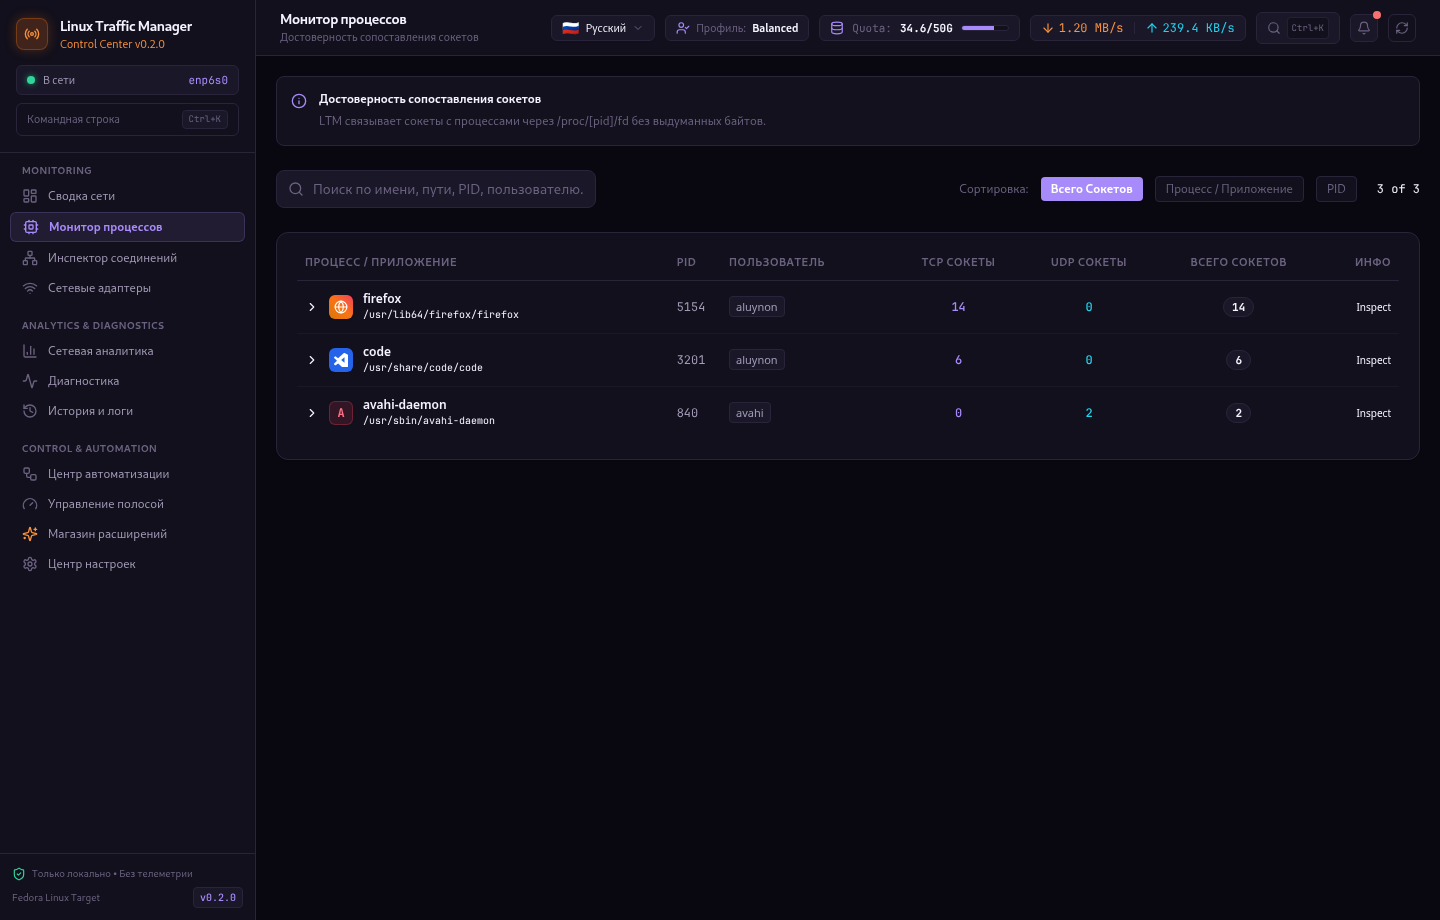
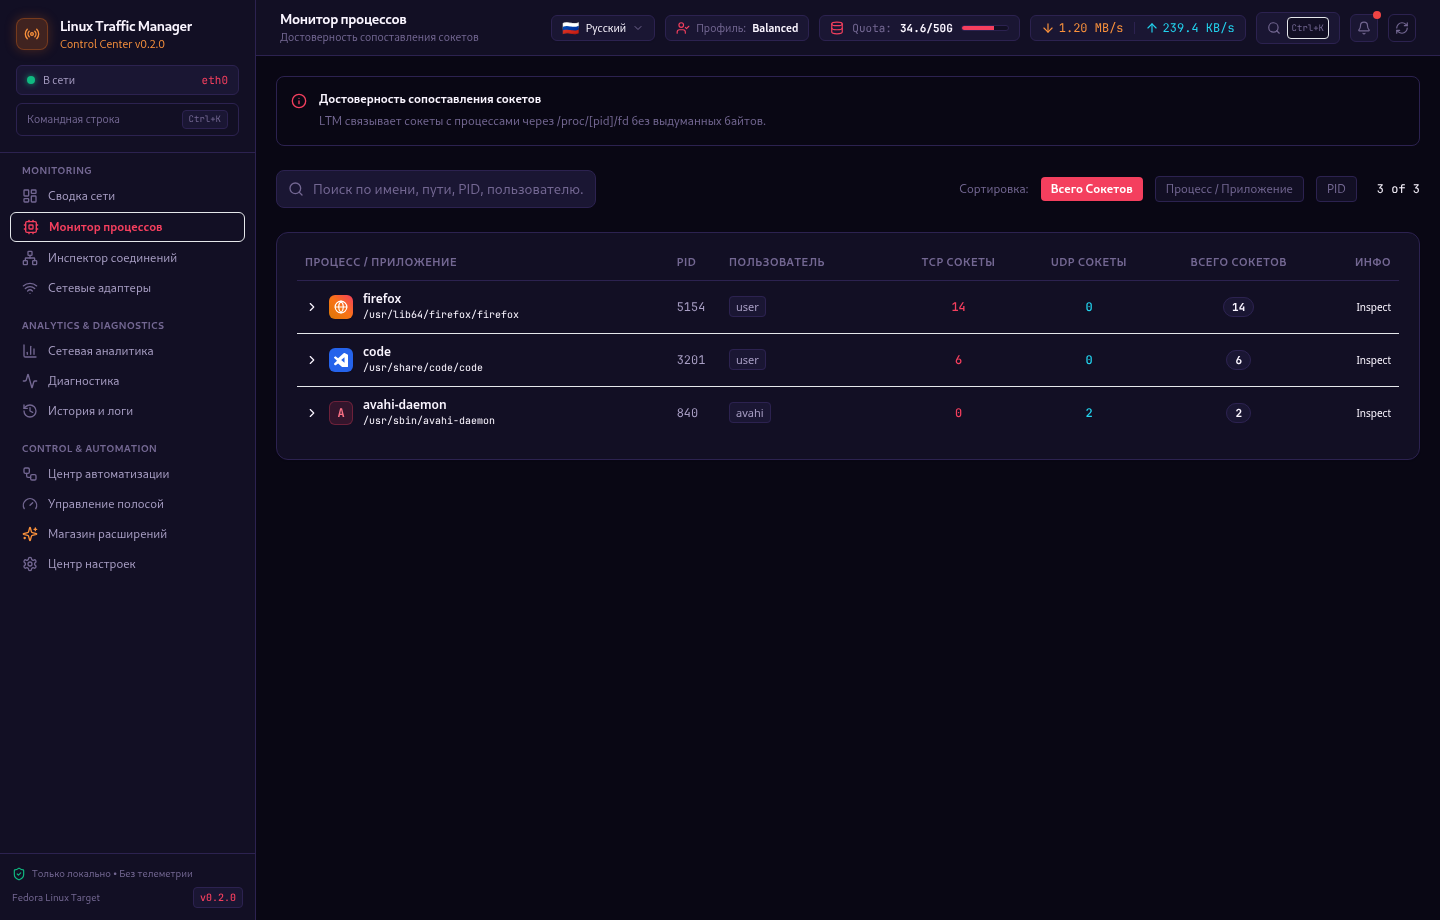
security: fully sanitize mock data and docs with generic eth0/user, update all screenshots

Changed region(s): [[0.7188, 0.1826, 0.8125, 0.2435], [0.0, 0.2435, 0.125, 0.2739], [0.125, 0.0609, 0.1562, 0.0913]]

diff --git a/frontend/src/services/mockData.ts b/frontend/src/services/mockData.ts
@@ -12,9 +12,9 @@ import {
 
 export const mockInterfaces: NetworkInterface[] = [
   {
-    name: 'enp6s0',
-    ip_addresses: ['192.168.0.105', 'fe80::4a21:3bff:fe91:21ad'],
-    mac_address: '48:21:3b:91:21:ad',
+    name: 'eth0',
+    ip_addresses: ['10.0.0.15', 'fe80::1ff:fe00:1'],
+    mac_address: '52:54:00:12:34:56',
     state: 'up',
     is_up: true,
     is_loopback: false,
@@ -77,9 +77,9 @@ export const generateMockHistoryPoints = (): TrafficHistoryPoint[] => {
 
 export const mockConnections: NetworkConnection[] = [
   {
-    id: 'TCP-192.168.0.105:52310-142.250.180.206:443-42806',
+    id: 'TCP-10.0.0.15:52310-142.250.180.206:443-42806',
     protocol: 'TCP',
-    local_address: '192.168.0.105',
+    local_address: '10.0.0.15',
     local_port: 52310,
     remote_address: '142.250.180.206',
     remote_port: 443,
@@ -88,7 +88,7 @@ export const mockConnections: NetworkConnection[] = [
     uid: 1000,
     pid: 5154,
     process_name: 'firefox',
-    user: 'aluynon',
+    user: 'user',
     first_seen: Math.floor(Date.now() / 1000) - 300,
   },
   {
@@ -103,13 +103,13 @@ export const mockConnections: NetworkConnection[] = [
     uid: 1000,
     pid: 3201,
     process_name: 'code',
-    user: 'aluynon',
+    user: 'user',
     first_seen: Math.floor(Date.now() / 1000) - 1800,
   },
   {
-    id: 'UDP-192.168.0.105:5353-224.0.0.251:5353-10705',
+    id: 'UDP-10.0.0.15:5353-224.0.0.251:5353-10705',
     protocol: 'UDP',
-    local_address: '192.168.0.105',
+    local_address: '10.0.0.15',
     local_port: 5353,
     remote_address: '224.0.0.251',
     remote_port: 5353,
@@ -128,7 +128,7 @@ export const mockApplications: ProcessAppSummary[] = [
     pid: 5154,
     name: 'firefox',
     executable_path: '/usr/lib64/firefox/firefox',
-    user: 'aluynon',
+    user: 'user',
     connection_count: 14,
     tcp_count: 14,
     udp_count: 0,
@@ -139,7 +139,7 @@ export const mockApplications: ProcessAppSummary[] = [
     pid: 3201,
     name: 'code',
     executable_path: '/usr/share/code/code',
-    user: 'aluynon',
+    user: 'user',
     connection_count: 6,
     tcp_count: 6,
     udp_count: 0,
@@ -165,8 +165,8 @@ export const mockDiagnosticReport: DiagnosticReport = {
   dns_status: 'Working',
   dns_latency_ms: 18.4,
   gateway: {
-    interface: 'enp6s0',
-    gateway_ip: '192.168.0.1',
+    interface: 'eth0',
+    gateway_ip: '10.0.0.1',
     is_reachable: true,
     latency_ms: 1.2,
   },
@@ -232,7 +232,7 @@ export const mockHistoricalSamples: StoredTrafficSample[] = [
   {
     id: 1,
     timestamp: Math.floor(Date.now() / 1000) - 3600,
-    interface_name: 'enp6s0',
+    interface_name: 'eth0',
     rx_speed_bps: 1024000,
     tx_speed_bps: 128000,
     rx_bytes_total: 300000000,
@@ -241,7 +241,7 @@ export const mockHistoricalSamples: StoredTrafficSample[] = [
   {
     id: 2,
     timestamp: Math.floor(Date.now() / 1000) - 1800,
-    interface_name: 'enp6s0',
+    interface_name: 'eth0',
     rx_speed_bps: 2048000,
     tx_speed_bps: 512000,
     rx_bytes_total: 320000000,
@@ -250,7 +250,7 @@ export const mockHistoricalSamples: StoredTrafficSample[] = [
   {
     id: 3,
     timestamp: Math.floor(Date.now() / 1000),
-    interface_name: 'enp6s0',
+    interface_name: 'eth0',
     rx_speed_bps: 1258291,
     tx_speed_bps: 245100,
     rx_bytes_total: 345829120,

diff --git a/frontend/src/pages/DashboardPage.tsx b/frontend/src/pages/DashboardPage.tsx
@@ -265,7 +265,7 @@ export const DashboardPage: React.FC<DashboardPageProps> = ({
             <div className="flex justify-between p-2 rounded bg-surface-secondary border border-border/40">
               <span className="text-text-muted font-sans">{t.defaultGateway}:</span>
               <span className="text-text-primary">
-                {diagnosticReport?.gateway?.gateway_ip || activeInterface?.gateway || '192.168.0.1'}
+                {diagnosticReport?.gateway?.gateway_ip || activeInterface?.gateway || '10.0.0.1'}
               </span>
             </div>
 

diff --git a/frontend/src/services/tauriClient.ts b/frontend/src/services/tauriClient.ts
@@ -205,7 +205,7 @@ export const api = {
 
   probeRouteHops: async (target: string, maxHops?: number): Promise<RouteHop[]> => {
     return safeInvoke('probe_route_hops', { target, maxHops }, [
-      { hop: 1, ip: '192.168.0.1', rtt_ms: 1.2, status: 'Local Gateway' },
+      { hop: 1, ip: '10.0.0.1', rtt_ms: 1.2, status: 'Local Gateway' },
       { hop: 2, ip: '1.1.1.1', rtt_ms: 22.4, status: `Target Host (${target})` },
     ]);
   },

diff --git a/crates/ltm-core/src/network/interfaces.rs b/crates/ltm-core/src/network/interfaces.rs
@@ -256,7 +256,7 @@ mod tests {
     const SAMPLE_PROC_DEV: &str = r#"Inter-|   Receive                                                |  Transmit
  face |bytes    packets errs drop fifo frame compressed multicast|bytes    packets errs drop fifo colls carrier compressed
     lo: 16412278   19635    0    0    0     0          0         0 16412278   19635    0    0    0     0       0          0
-enp6s0: 324756337  271850    0    1    0     0          0       289 135704666  229104    0    0    0     0       0          0
+  eth0: 324756337  271850    0    1    0     0          0       289 135704666  229104    0    0    0     0       0          0
 "#;
 
     #[test]
@@ -264,13 +264,13 @@ enp6s0: 324756337  271850    0    1    0     0          0       289 135704666  2
         let parsed = parse_proc_net_dev(SAMPLE_PROC_DEV);
         assert_eq!(parsed.len(), 2);
 
-        let enp = parsed.get("enp6s0").expect("enp6s0 parsed");
-        assert_eq!(enp.rx_bytes, 324756337);
-        assert_eq!(enp.rx_packets, 271850);
-        assert_eq!(enp.rx_errs, 0);
-        assert_eq!(enp.rx_drop, 1);
-        assert_eq!(enp.tx_bytes, 135704666);
-        assert_eq!(enp.tx_packets, 229104);
+        let eth = parsed.get("eth0").expect("eth0 parsed");
+        assert_eq!(eth.rx_bytes, 324756337);
+        assert_eq!(eth.rx_packets, 271850);
+        assert_eq!(eth.rx_errs, 0);
+        assert_eq!(eth.rx_drop, 1);
+        assert_eq!(eth.tx_bytes, 135704666);
+        assert_eq!(eth.tx_packets, 229104);
 
         let lo = parsed.get("lo").expect("lo parsed");
         assert_eq!(lo.rx_bytes, 16412278);

diff --git a/crates/ltm-core/src/diagnostics/gateway.rs b/crates/ltm-core/src/diagnostics/gateway.rs
@@ -95,7 +95,7 @@ mod tests {
     fn test_gateway_route_parsing() {
         let sample =
             "Iface\tDestination\tGateway\tFlags\tRefCnt\tUse\tMetric\tMask\tMTU\tWindow\tIRTT\n\
-                      enp6s0\t00000000\t0100A8C0\t0003\t0\t0\t100\t00000000\t0\t0\t0\n";
+                      eth0\t00000000\t0100000A\t0003\t0\t0\t100\t00000000\t0\t0\t0\n";
 
         let mut parsed_gw = None;
         for line in sample.lines().skip(1) {
@@ -105,6 +105,6 @@ mod tests {
             }
         }
 
-        assert_eq!(parsed_gw.unwrap(), Ipv4Addr::new(192, 168, 0, 1));
+        assert_eq!(parsed_gw.unwrap(), Ipv4Addr::new(10, 0, 0, 1));
     }
 }

diff --git a/docs/ebpf-architecture.md b/docs/ebpf-architecture.md
@@ -20,7 +20,7 @@ However, in stock Linux kernels, unprivileged user space cannot query the exact 
 ```text
 ┌────────────────────────────────────────────────────────┐
 │               LTM Desktop GUI (Unprivileged)           │
-│   - Runs as standard user `aluynon`                    │
+│   - Runs as standard user `user`                       │
 │   - Renders React UI and Tauri window                  │
 │   - Communicates via local Unix Domain Socket          │
 └───────────────────────────▲────────────────────────────┘
